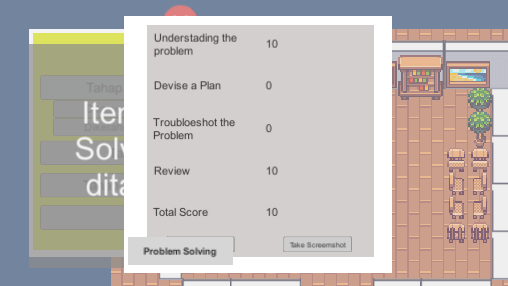
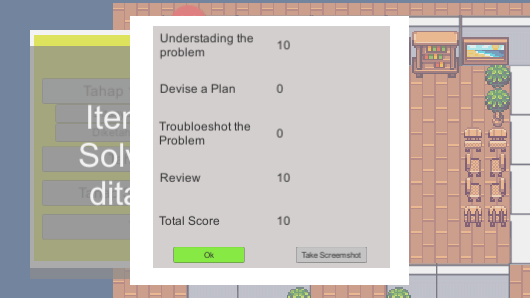
Fix Bug
- Fix Bug Nilai
- Fix Bug pada Comp_sys yang tidak sama PSItem di script PSolving
- Fix Bug Jawaban yang bisa kosong ketika menekan Confirm
- Menambah File Ink (Story)
- Menambah fitur SS (Cari cara supaya bisa download (WEB GL))

diff --git a/Skirpsi-test/Assets/Script/PSolving.cs b/Skirpsi-test/Assets/Script/PSolving.cs
@@ -235,8 +235,8 @@ public class PSolving : MonoBehaviour
                 }
                 Debug.Log(i);
             }
-            
-           
+
+            currentchoice = 0;
         }
         else {
             Debug.Log("Pilih jawaban");
@@ -254,6 +254,7 @@ public class PSolving : MonoBehaviour
         ShowAnswer();
         qpanel.SetActive(true);
         confirm.SetActive(true);
+       
     }
     public void OnUtP2Button()
     {
@@ -265,6 +266,7 @@ public class PSolving : MonoBehaviour
         ShowAnswer();
         qpanel.SetActive(true);
         confirm.SetActive(true);
+        
     }
     public void OnDaPButton()
     {
@@ -277,9 +279,14 @@ public class PSolving : MonoBehaviour
         ShowAnswer();
         qpanel.SetActive(true);
         confirm.SetActive(true);
+       
     }
     public void OnUtPButton()
     { 
+       if(!reviewstate)
+        {
+            comp_Sys.psItem = pSItems;
+        }
        if (!TtP_confirm.activeSelf)
         {
             TtP_confirm.SetActive(true);
@@ -356,7 +363,7 @@ public class PSolving : MonoBehaviour
                     {
                         nilai.SetActive(false);
                         block2.SetActive(false);
-                        
+                        reset();
                         Destroy(pSItems);
                         //lanjut story
 
@@ -507,25 +514,25 @@ public class PSolving : MonoBehaviour
         }
         if (pSItems.PSItemState.pc1_state == true)
         {
-            TtPnilai = TtPnilai + 10;
+            TtPnilai = TtPnilai + 15;
 
         }
         if (pSItems.PSItemState.pc2_state == true)
         {
-            TtPnilai = TtPnilai + 10;
+            TtPnilai = TtPnilai + 15;
 
         }
         if (pSItems.PSItemState.pc3_state == true)
         {
-            TtPnilai = TtPnilai + 10;
+            TtPnilai = TtPnilai + 15;
 
         }
         if (pSItems.PSItemState.pc4_state == true)
         {
-            TtPnilai = TtPnilai + 10;
+            TtPnilai = TtPnilai + 15;
 
         }
-        totalnilai = UtSnilai + DaPnilai + TtPnilai;
+        totalnilai = UtSnilai + DaPnilai + TtPnilai + 10;
 
         
 

diff --git a/Skirpsi-test/Assets/Script/Comp_Sys.cs b/Skirpsi-test/Assets/Script/Comp_Sys.cs
@@ -31,7 +31,7 @@ public class Comp_Sys : MonoBehaviour
     void Start()
     {
         PSolving = GameManager.instance.psolving;
-        psItem = GameManager.instance.pSItem;
+        //psItem = Instantiate();
         notif = GameManager.instance.notif;
     }
 
@@ -256,7 +256,7 @@ public class Comp_Sys : MonoBehaviour
 
         }
         
-        }
+    }
 
     void Confirmation(int buttonindex, Vector3 newpos)
     {
